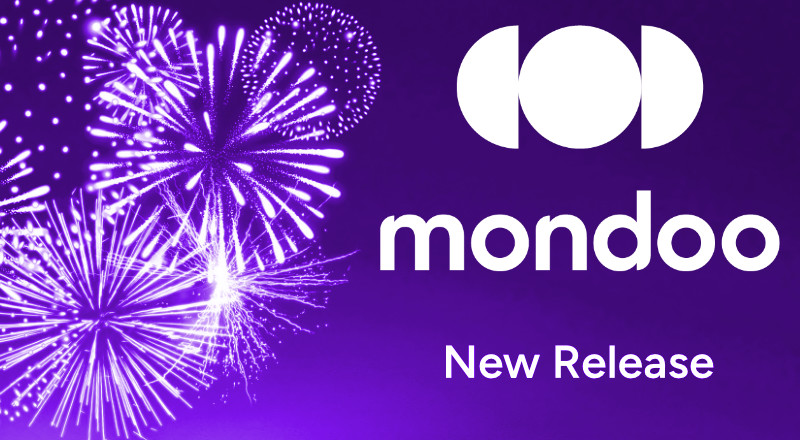
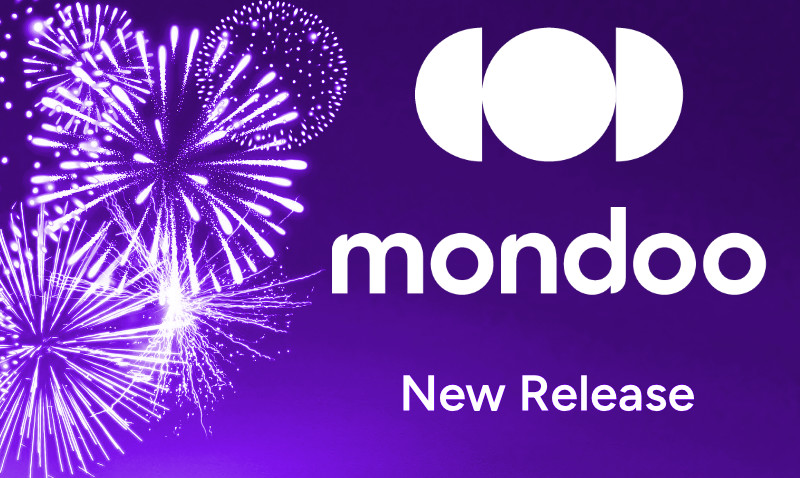
adjust release feature image

diff --git a/releases/test.md b/releases/test.md
@@ -5,7 +5,7 @@ description: test
 author: Letha
 author_title: Mondoo Core Team
 unlisted: true
-image: /img/featured_img/release-feature.png
+image: /img/featured_img/release-feature.jpg
 ---
 
 ## 🥳 Mondoo infinity is out! This release includes the world!
